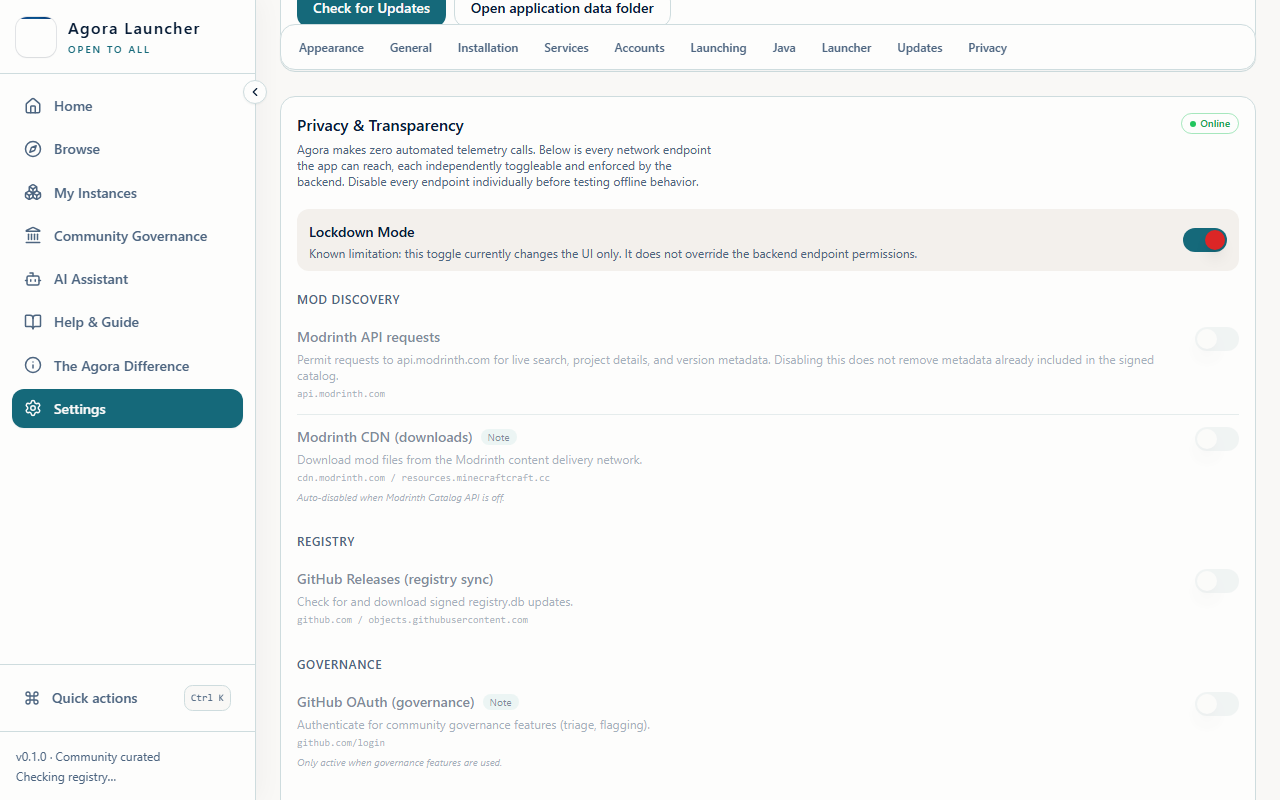
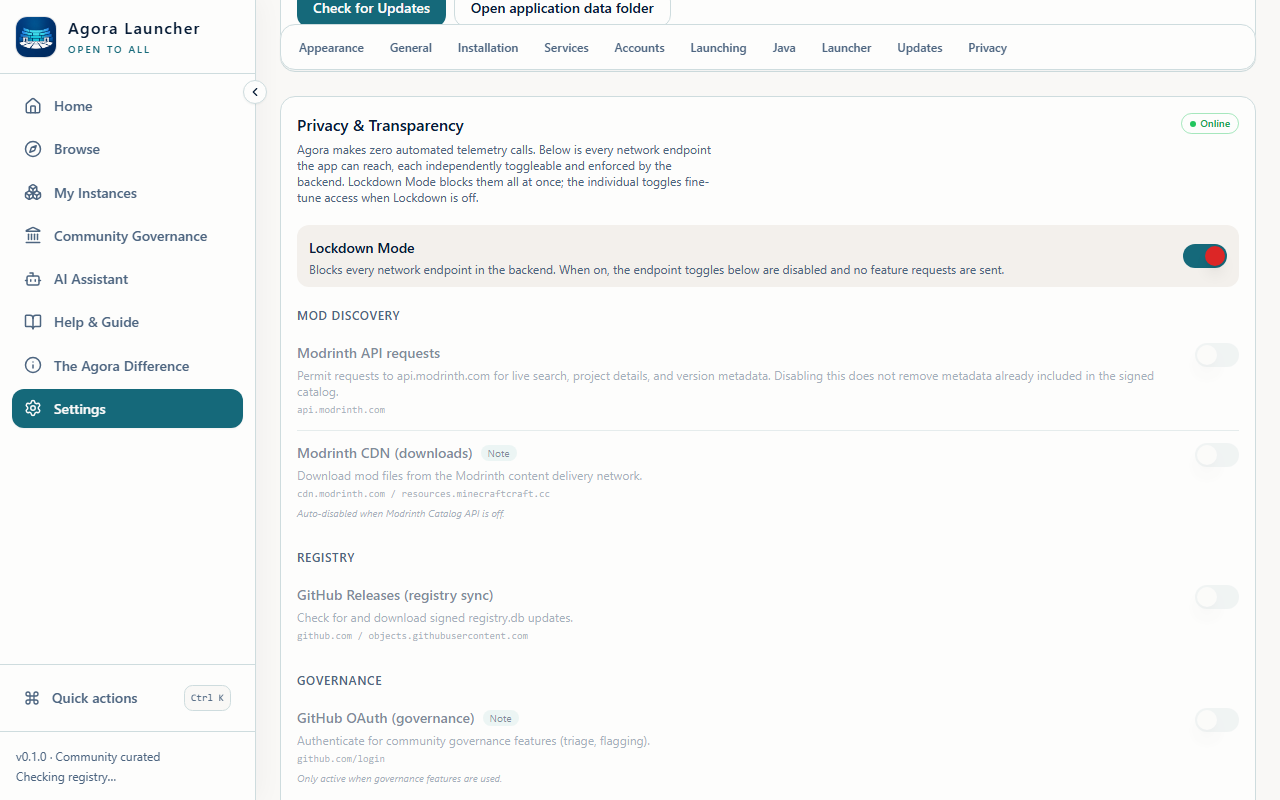
feat(network): implement Lockdown Mode to globally disable network endpoints
docs: update documentation to reflect Lockdown Mode functionality

fix: correct descriptions related to Lockdown Mode in Privacy settings

test: add tests for Lockdown Mode behavior in network policy

chore: update screenshots and text in troubleshooting guide regarding Lockdown Mode

diff --git a/desktop/src/data/guideContent.ts b/desktop/src/data/guideContent.ts
@@ -119,7 +119,7 @@ export const GUIDE_TOPICS: GuideTopic[] = [
           callout: {
             tone: 'tip',
             title: 'Prefer explicit checks',
-            text: 'When preparing an offline machine, download the registry, loader metadata, required mods, and Java runtime, then disable each Privacy endpoint individually. The current Lockdown toggle alone does not enforce a backend-wide network block.',
+            text: 'When preparing an offline machine, download the registry, loader metadata, required mods, and Java runtime. Lockdown Mode blocks every network endpoint in the backend; test the exact launch workflow while you still have time to fix missing files.',
           },
         },
       ],
@@ -1063,7 +1063,7 @@ export const GUIDE_TOPICS: GuideTopic[] = [
       sections: [
         {
           title: 'Trace the enablement chain',
-          body: 'For live Modrinth access, service consent, the Modrinth API permission, and the CDN permission must align. Similar endpoint-permission chains apply to registry updates, governance, runtime downloads, and authentication. The current Lockdown toggle is not part of backend enforcement.',
+          body: 'For live Modrinth access, service consent, the Modrinth API permission, and the CDN permission must align. Similar endpoint-permission chains apply to registry updates, governance, runtime downloads, and authentication. Lockdown Mode is a global backend block that overrides every endpoint permission.'
         },
         {
           title: 'Diagnose account state',
@@ -1092,7 +1092,7 @@ export const GUIDE_TOPICS: GuideTopic[] = [
       summary: 'Agora makes no automated telemetry calls. The Privacy section documents functional network destinations and lets Advanced-mode users disable the enforced endpoint groups individually.',
       outcomes: [
         'Understand why Agora contacts each service category.',
-        'Understand the current Lockdown limitation.',
+        'Use Lockdown Mode as a global network block.',
         'Prepare cached data before going offline.',
       ],
       sections: [
@@ -1101,8 +1101,8 @@ export const GUIDE_TOPICS: GuideTopic[] = [
           body: 'Network access can support Modrinth discovery and files, GitHub registry updates and governance, Mojang metadata and content, loader downloads, Microsoft authentication, Java runtime downloads, application updates, and optional AI services.',
         },
         {
-          title: 'Do not rely on Lockdown alone',
-          body: 'Enable Advanced mode and open Privacy. Disable every endpoint switch individually before an offline test. The current Lockdown toggle persists its UI state and disables those controls, but the Rust backend does not read it as a global network policy.',
+          title: 'Use Lockdown Mode for a global block',
+          body: 'Enable Advanced mode and open Privacy. Lockdown Mode disables every endpoint switch and blocks all outbound feature requests in the backend. Turn individual endpoints back on when you need finer control than an all-or-nothing block.',
           callout: {
             tone: 'warning',
             title: 'Online launch may need the network',
@@ -1132,7 +1132,7 @@ export const GUIDE_TOPICS: GuideTopic[] = [
       sections: [
         {
           title: 'Apply capability-based policy',
-          body: 'Enable only the endpoint groups needed for the workflow: registry, governance, mod discovery, launch, runtime, authentication, updates, or AI. The individual choices are the enforced policy; Lockdown currently does not override them in the backend.',
+          body: 'Enable only the endpoint groups needed for the workflow: registry, governance, mod discovery, launch, runtime, authentication, updates, or AI. The individual choices are the enforced policy; Lockdown Mode overrides all of them at once for a total block.',
           bullets: [
             'Disabling the Modrinth API also prevents the associated CDN workflow.',
             'Runtime access is separate from Mojang game content and loader content.',
@@ -1141,7 +1141,7 @@ export const GUIDE_TOPICS: GuideTopic[] = [
         },
         {
           title: 'Audit degraded behavior',
-          body: 'When a feature fails, compare its service consent with its endpoint permission and the live Online/Offline indicator. Individual endpoint preferences are persisted and enforced by the Rust backend. Lockdown is currently only a persisted UI preference.',
+          body: 'When a feature fails, compare its service consent with its endpoint permission and the live Online/Offline indicator. Individual endpoint preferences are persisted and enforced by the Rust backend; Lockdown Mode is a global backend block that overrides them.'
         },
         {
           title: 'Protect shared diagnostics',

diff --git a/web/src/app/docs/page.tsx b/web/src/app/docs/page.tsx
@@ -55,7 +55,7 @@ const screenshots = [
   },
   {
     src: '/screenshots/privacy-lockdown.png',
-    alt: 'Privacy settings showing endpoint controls and the documented Lockdown limitation.',
+    alt: 'Privacy settings showing endpoint controls and the Lockdown Mode toggle.',
     caption: 'Privacy and Lockdown controls in Agora 0.1.0, captured 2026-08-05 with no account data.',
   },
 ];
@@ -205,19 +205,20 @@ export default async function DocsPage() {
         <p className="leading-7 text-gray-700 dark:text-gray-300">
           Offline readiness is instance-specific. Cache the registry, Java runtime, game, loader,
           and mod artifacts, then test the exact launch mode before disconnecting. Individual
-          Privacy endpoint switches are enforced by the backend.
+          Privacy endpoint switches are enforced by the backend, and Lockdown Mode disables them
+          all at once.
         </p>
-        <p className="rounded-lg border border-red-300 bg-red-50 p-4 text-sm text-red-900 dark:border-red-800 dark:bg-red-950 dark:text-red-200">
-          Known defect: the current Lockdown toggle persists its UI state and disables the endpoint
-          controls, but the backend does not read it as a global network block. Disable every
-          endpoint individually before enabling Lockdown, or enforce offline behavior outside Agora.
+        <p className="rounded-lg border border-green-300 bg-green-50 p-4 text-sm text-green-900 dark:border-green-800 dark:bg-green-950 dark:text-green-200">
+          Lockdown Mode in the desktop Privacy settings is a global backend network block: while it
+          is on, every endpoint permission is disabled and Agora sends no feature requests. Use it
+          to force offline behavior; turn individual endpoints back on for finer control.
         </p>
       </section>
 
       <section className="space-y-4">
         <h2 className="text-2xl font-bold">Integrated AI and MCP</h2>
         <p className="leading-7 text-gray-700 dark:text-gray-300">
-          The optional integrated assistant uses GitHub Copilot. Assistant messages leave the
+          The optional integrated assistant uses gpt-4o throughGitHub Copilot. Assistant messages leave the
           machine. A Crash Doctor handoff can also send the instance ID, selected crash log, matched
           signatures, and ranked suspects in the first message; a mod-list request can send installed
           mod context. Review logs before submitting them.

diff --git a/desktop/src/pages/Privacy.tsx b/desktop/src/pages/Privacy.tsx
@@ -222,7 +222,7 @@ export function Privacy() {
         <div className="space-y-1">
           <h3 className="font-semibold">Privacy &amp; Transparency</h3>
           <p className="text-xs text-muted-foreground max-w-prose leading-relaxed">
-            Agora makes zero automated telemetry calls. Below is every network endpoint the app can reach, each independently toggleable and enforced by the backend. Disable every endpoint individually before testing offline behavior.
+            Agora makes zero automated telemetry calls. Below is every network endpoint the app can reach, each independently toggleable and enforced by the backend. Lockdown Mode blocks them all at once; the individual toggles fine-tune access when Lockdown is off.
           </p>
         </div>
         <Badge
@@ -250,7 +250,7 @@ export function Privacy() {
           <div>
             <span className="text-sm font-medium">Lockdown Mode</span>
             <p className="text-xs text-muted-foreground mt-0.5">
-              Known limitation: this toggle currently changes the UI only. It does not override the backend endpoint permissions.
+              Blocks every network endpoint in the backend. When on, the endpoint toggles below are disabled and no feature requests are sent.
             </p>
           </div>
           <Switch
@@ -310,7 +310,7 @@ export function Privacy() {
 
       {/* Footer note */}
       <p className="text-[10px] text-muted-foreground pt-1 border-t border-border">
-        Individual endpoint toggles persist and are enforced by the Rust backend. Lockdown is not yet a global backend policy.
+        Individual endpoint toggles persist and are enforced by the Rust backend. Lockdown Mode is a global backend network block that overrides them.
       </p>
     </div>
   );

diff --git a/crates/agora-core/src/db.rs b/crates/agora-core/src/db.rs
@@ -101,6 +101,7 @@ const BOOLEAN_SETTING_KEYS: &[&str] = &[
     "network_mojang_metadata_enabled",
     "network_mojang_content_enabled",
     "network_loader_enabled",
+    "network_lockdown_enabled",
 ];
 
 /// Convert legacy boolean encodings to genuine JSON booleans on startup.
@@ -419,18 +420,36 @@ pub fn get_setting(conn: &Connection, key: &str) -> anyhow::Result<Option<serde_
 
 /// Check if a specific network feature is enabled in settings.
 /// Returns `true` if enabled (or setting not found, for backward compatibility),
-/// `false` if explicitly disabled.
+/// `false` if explicitly disabled, or if Lockdown Mode is enabled.
 /// Setting keys: `network_modrinth_enabled`, `network_modrinth_cdn_enabled`,
 /// `network_registry_sync_enabled`, `network_github_oauth_enabled`,
 /// `network_msa_enabled`, `network_adoptium_enabled`,
 /// `network_mojang_metadata_enabled`, `network_mojang_content_enabled`,
-/// `network_loader_enabled`.
+/// `network_loader_enabled`. Lockdown Mode (`network_lockdown_enabled`) is a
+/// global override that disables every endpoint.
 pub fn is_network_enabled(conn: &Connection, key: &str) -> bool {
+    // Lockdown Mode blocks every network endpoint regardless of the per-endpoint
+    // toggle, so the backend never sends outbound feature requests while on.
+    if is_lockdown_enabled(conn) {
+        return false;
+    }
     get_setting(conn, key)
         .ok()
         .flatten()
         .map(|v| is_value_enabled(&v))
         .unwrap_or(true)
+}
+
+/// Whether Lockdown Mode (global network block) is enabled.
+///
+/// Lockdown overrides every per-endpoint toggle. It defaults to off when the
+/// setting has never been written.
+pub fn is_lockdown_enabled(conn: &Connection) -> bool {
+    get_setting(conn, "network_lockdown_enabled")
+        .ok()
+        .flatten()
+        .map(|v| is_value_enabled(&v))
+        .unwrap_or(false)
 }
 
 /// Parse a stored setting value as a boolean, accepting both JSON booleans
@@ -1460,6 +1479,45 @@ mod tests {
         assert!(!is_network_enabled(&conn, "rt_key"));
         set_setting(&conn, "rt_key", &serde_json::Value::String("true".into())).unwrap();
         assert!(is_network_enabled(&conn, "rt_key"));
+    }
+
+    // ---- Lockdown Mode (global network block) ----
+
+    #[test]
+    fn test_lockdown_defaults_to_off() {
+        let (conn, _path) = test_db();
+        assert!(!is_lockdown_enabled(&conn));
+    }
+
+    #[test]
+    fn test_lockdown_disables_all_endpoints() {
+        let (conn, _path) = test_db();
+        set_setting(&conn, "network_modrinth_enabled", &serde_json::json!(true)).unwrap();
+        set_setting(
+            &conn,
+            "network_registry_sync_enabled",
+            &serde_json::json!(true),
+        )
+        .unwrap();
+        set_setting(&conn, "network_lockdown_enabled", &serde_json::json!(true)).unwrap();
+
+        assert!(is_lockdown_enabled(&conn));
+        // Every endpoint is blocked, even ones that are individually enabled
+        // and keys that have never been written.
+        assert!(!is_network_enabled(&conn, "network_modrinth_enabled"));
+        assert!(!is_network_enabled(&conn, "network_registry_sync_enabled"));
+        assert!(!is_network_enabled(&conn, "network_github_oauth_enabled"));
+        assert!(!is_network_enabled(&conn, "nonexistent_network_key"));
+    }
+
+    #[test]
+    fn test_lockdown_off_does_not_block_endpoints() {
+        let (conn, _path) = test_db();
+        set_setting(&conn, "network_lockdown_enabled", &serde_json::json!(false)).unwrap();
+        set_setting(&conn, "network_modrinth_enabled", &serde_json::json!(true)).unwrap();
+
+        assert!(!is_lockdown_enabled(&conn));
+        assert!(is_network_enabled(&conn, "network_modrinth_enabled"));
     }
 
     // ---- record_co_crash ----

diff --git a/crates/agora-core/src/network.rs b/crates/agora-core/src/network.rs
@@ -136,6 +136,11 @@ impl NetworkPolicy {
 /// setting key is absent from the database. Matches the first-party-network-defaults
 /// behaviour where missing keys are treated as enabled.
 fn is_network_enabled_default_true(conn: &rusqlite::Connection, key: &str) -> bool {
+    // Lockdown Mode is a global network block: when enabled the launch planner
+    // refuses every category even though these keys default to enabled.
+    if db::is_lockdown_enabled(conn) {
+        return false;
+    }
     db::get_setting(conn, key)
         .ok()
         .flatten()
@@ -519,6 +524,43 @@ mod tests {
         assert!(!policy.is_enabled(NetworkCategory::LoaderMetadataAndContent));
         assert!(!policy.is_enabled(NetworkCategory::MicrosoftAuthentication));
         assert!(!policy.is_enabled(NetworkCategory::JavaRuntime));
+    }
+
+    #[test]
+    fn from_db_lockdown_disables_all_categories() {
+        let conn = test_db();
+        // All launch-network keys enabled, but Lockdown Mode on.
+        crate::db::set_setting(
+            &conn,
+            "network_lockdown_enabled",
+            &serde_json::Value::Bool(true),
+        )
+        .unwrap();
+
+        let policy = NetworkPolicy::from_db(&conn);
+        assert!(!policy.is_enabled(NetworkCategory::MojangMetadata));
+        assert!(!policy.is_enabled(NetworkCategory::MojangContent));
+        assert!(!policy.is_enabled(NetworkCategory::LoaderMetadataAndContent));
+        assert!(!policy.is_enabled(NetworkCategory::MicrosoftAuthentication));
+        assert!(!policy.is_enabled(NetworkCategory::JavaRuntime));
+    }
+
+    #[test]
+    fn from_db_lockdown_off_keeps_defaults() {
+        let conn = test_db();
+        crate::db::set_setting(
+            &conn,
+            "network_lockdown_enabled",
+            &serde_json::Value::Bool(false),
+        )
+        .unwrap();
+
+        let policy = NetworkPolicy::from_db(&conn);
+        assert!(policy.is_enabled(NetworkCategory::MojangMetadata));
+        assert!(policy.is_enabled(NetworkCategory::MojangContent));
+        assert!(policy.is_enabled(NetworkCategory::LoaderMetadataAndContent));
+        assert!(policy.is_enabled(NetworkCategory::MicrosoftAuthentication));
+        assert!(policy.is_enabled(NetworkCategory::JavaRuntime));
     }
 
     #[test]

diff --git a/docs/TROUBLESHOOTING.md b/docs/TROUBLESHOOTING.md
@@ -117,7 +117,7 @@ Before disconnecting:
 
 Microsoft online identity, missing artifacts, updates, and uncached downloads cannot complete offline.
 
-The current Lockdown toggle persists its UI state and disables the endpoint controls, but the backend does not read it as a global network policy. Do not rely on that toggle alone to block traffic. Disable the individual endpoint switches before enabling Lockdown, or enforce offline behavior outside Agora. This is a known product defect, not a documentation exception.
+Lockdown Mode in **Settings > Privacy** is a global backend network block: while it is on, every endpoint permission is disabled and Agora sends no feature requests. Use it to force offline behavior, and turn individual endpoints back on when you need finer-grained access than an all-or-nothing block.
 
 ## Snapshots and world safety
 
